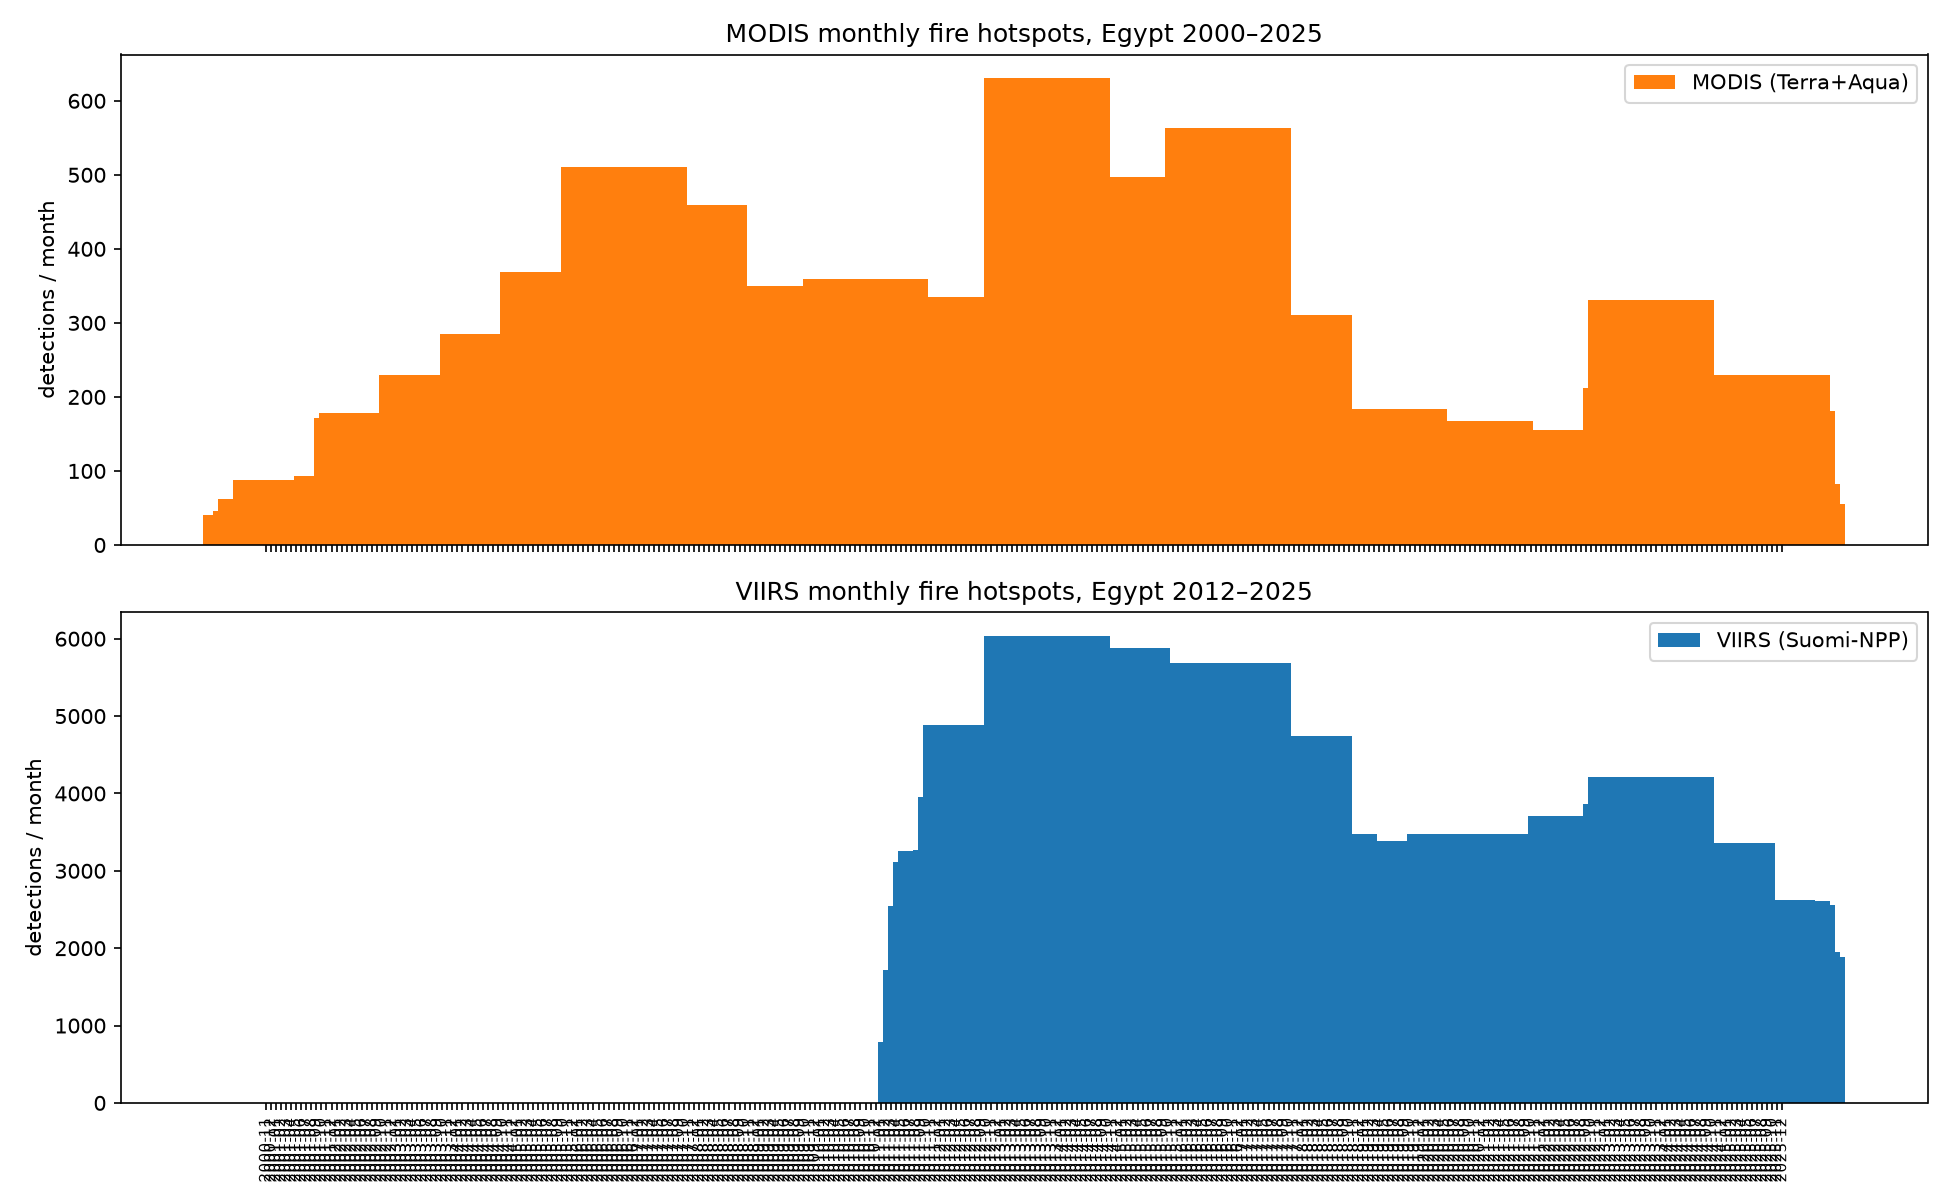
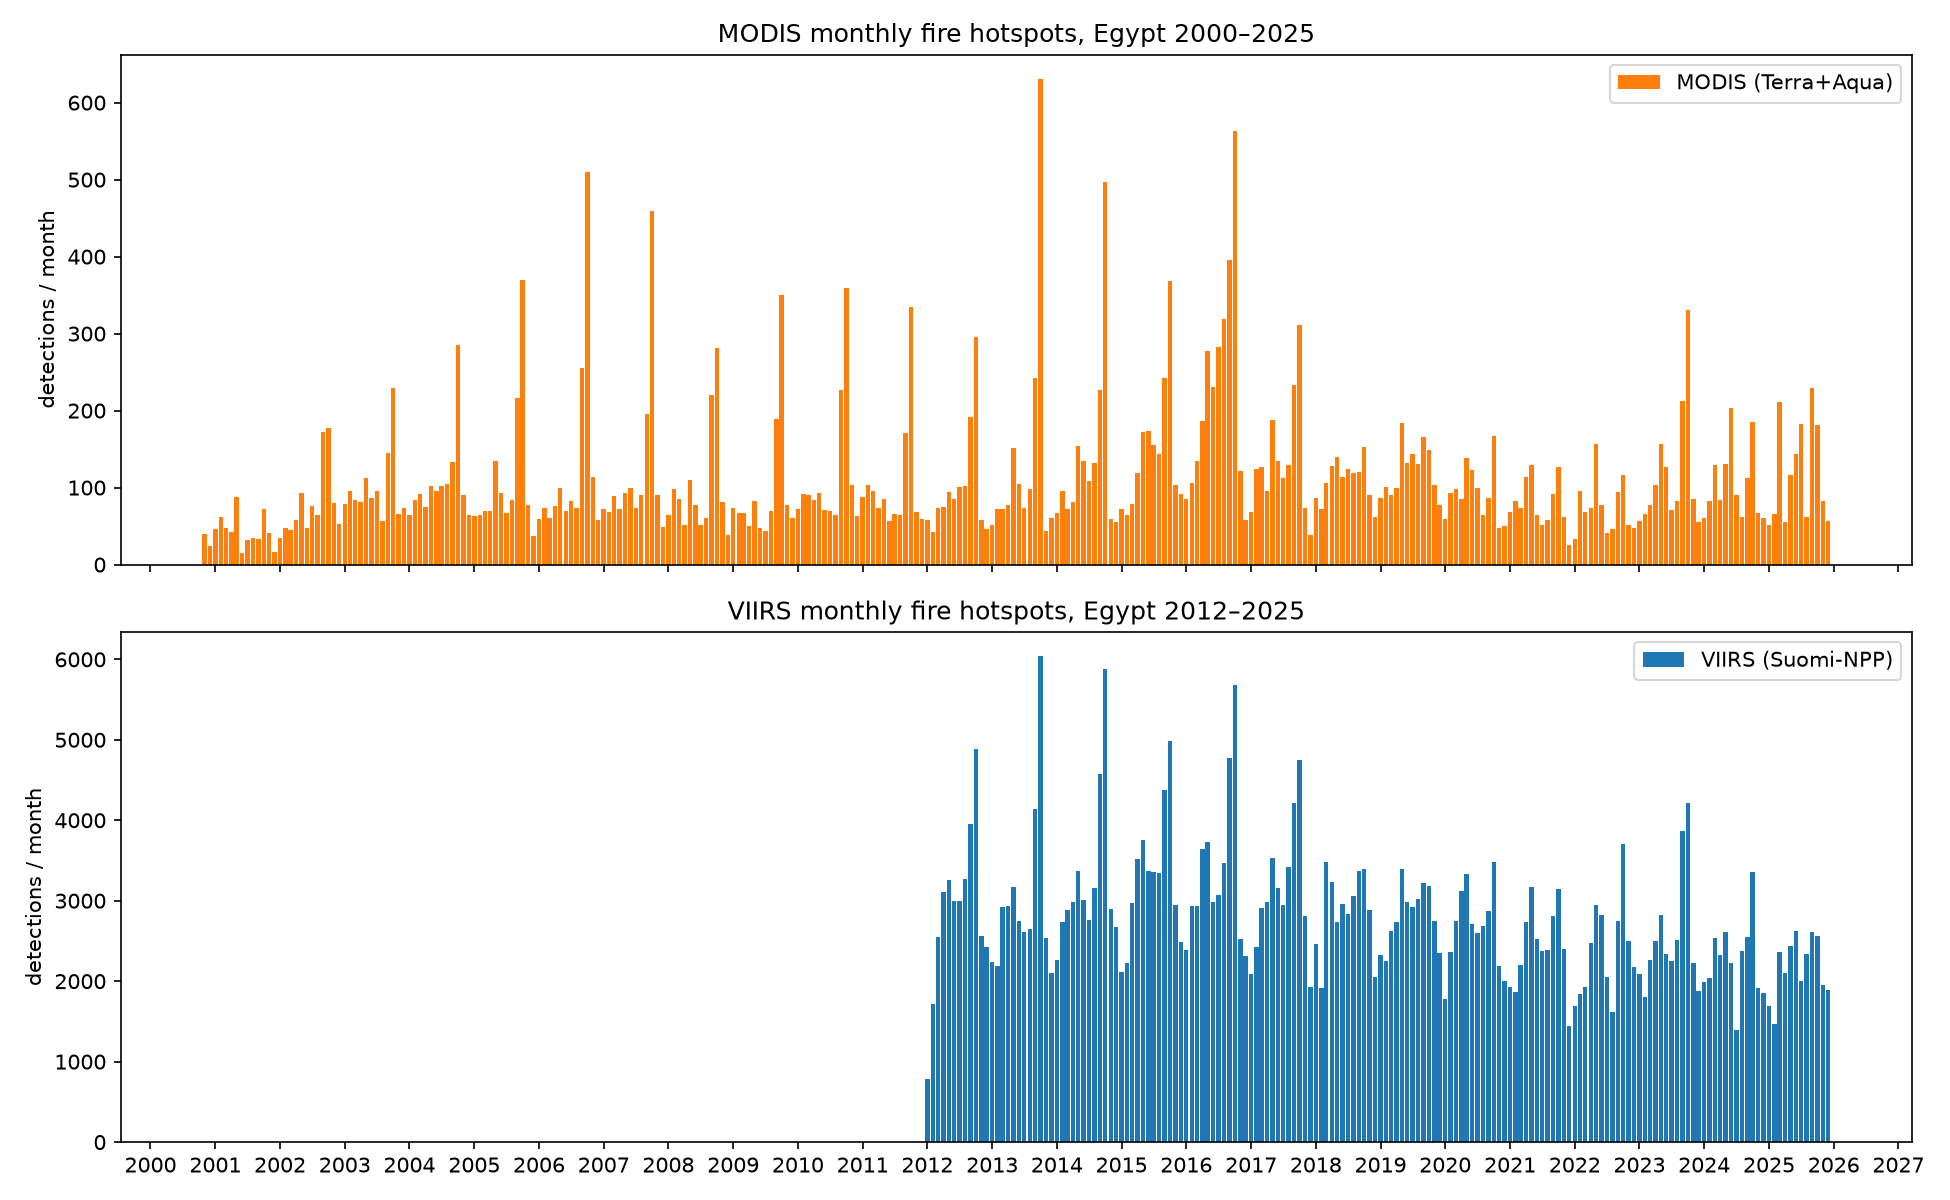
fixed x axis cramped data

diff --git a/build_full.py b/build_full.py
@@ -12,6 +12,7 @@ import pandas as pd
 import matplotlib
 
 matplotlib.use("Agg")
+import matplotlib.dates
 import matplotlib.pyplot as plt
 
 # ------------------------------------------------------------------ load --
@@ -89,21 +90,23 @@ monthly = (
     full.groupby(["month", "sensor"]).size().unstack(fill_value=0)
     .reindex(columns=["MODIS", "VIIRS"], fill_value=0)
 )
-monthly.index = pd.PeriodIndex(monthly.index, freq="M")
+monthly.index = pd.PeriodIndex(monthly.index, freq="M").to_timestamp()
 
 fig, axes = plt.subplots(2, 1, figsize=(13, 8), sharex=True)
-axes[0].bar(monthly.index.astype(str), monthly["MODIS"], width=25,
+axes[0].bar(monthly.index, monthly["MODIS"], width=25,
             color="tab:orange", label="MODIS (Terra+Aqua)")
 axes[0].set_ylabel("detections / month")
 axes[0].set_title("MODIS monthly fire hotspots, Egypt 2000–2025")
 axes[0].legend()
 
-axes[1].bar(monthly.index.astype(str), monthly["VIIRS"], width=25,
+axes[1].bar(monthly.index, monthly["VIIRS"], width=25,
             color="tab:blue", label="VIIRS (Suomi-NPP)")
 axes[1].set_ylabel("detections / month")
 axes[1].set_title("VIIRS monthly fire hotspots, Egypt 2012–2025")
 axes[1].legend()
-axes[1].tick_params(axis="x", rotation=90, labelsize=7)
+for ax in axes:
+    ax.xaxis.set_major_locator(matplotlib.dates.YearLocator())
+    ax.xaxis.set_major_formatter(matplotlib.dates.DateFormatter("%Y"))
 fig.tight_layout()
 fig.savefig("monthly_counts_full.png", dpi=150)
 plt.close(fig)

diff --git a/app.py b/app.py
@@ -12,6 +12,7 @@ import streamlit as st
 import matplotlib
 
 matplotlib.use("Agg")
+import matplotlib.dates
 import matplotlib.pyplot as plt
 
 st.set_page_config(page_title="Egypt Fire Hotspots", layout="wide")
@@ -118,17 +119,18 @@ else:
 
 st.subheader("Monthly detections over time")
 monthly = df.groupby(["month", "sensor"]).size().unstack(fill_value=0)
-monthly.index = pd.PeriodIndex(monthly.index, freq="M")
+monthly.index = pd.PeriodIndex(monthly.index, freq="M").to_timestamp()
 fig, ax = plt.subplots(figsize=(12, 3.5))
 if "MODIS" in monthly:
-    ax.plot(monthly.index.astype(str), monthly["MODIS"], color="tab:orange",
+    ax.plot(monthly.index, monthly["MODIS"], color="tab:orange",
             marker=".", markersize=3, label="MODIS (≤2011)")
 if "VIIRS" in monthly:
-    ax.plot(monthly.index.astype(str), monthly["VIIRS"], color="tab:blue",
+    ax.plot(monthly.index, monthly["VIIRS"], color="tab:blue",
             marker=".", markersize=3, label="VIIRS (≥2012)")
 ax.set_ylabel("detections / month")
 ax.legend()
-ax.tick_params(axis="x", rotation=90, labelsize=7)
+ax.xaxis.set_major_locator(matplotlib.dates.YearLocator())
+ax.xaxis.set_major_formatter(matplotlib.dates.DateFormatter("%Y"))
 fig.tight_layout()
 st.pyplot(fig)
 plt.close(fig)
